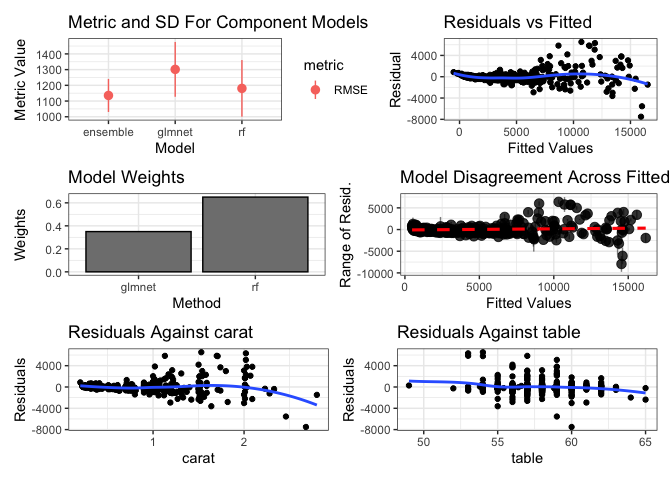
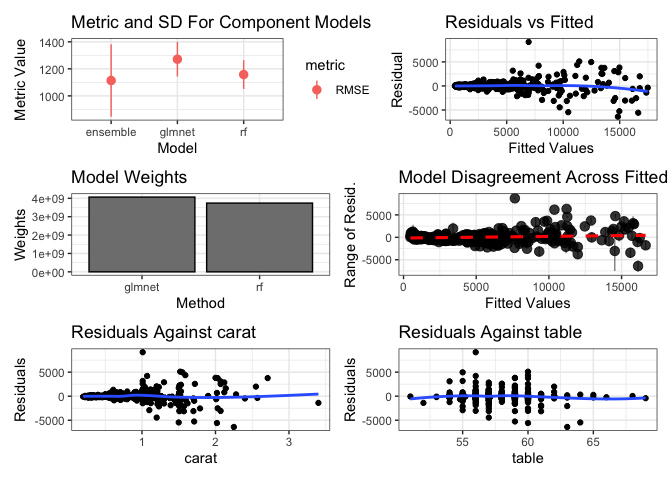
rebuild

diff --git a/README.md b/README.md
@@ -48,8 +48,8 @@ print(summary(models))
 #> Model accuracy:
 #>    model_name metric    value       sd
 #>        <char> <char>    <num>    <num>
-#> 1:         rf   RMSE 1180.525 180.2056
-#> 2:     glmnet   RMSE 1301.564 174.4400
+#> 1:         rf   RMSE 1157.927 106.0365
+#> 2:     glmnet   RMSE 1271.337 127.6882
 ```
 
 Then, use caretEnsemble to make a greedy ensemble of these models
@@ -67,18 +67,18 @@ print(greedy_stack)
 #> Summary of sample sizes: 400, 400, 400, 400, 400 
 #> Resampling results:
 #> 
-#>   RMSE      Rsquared  MAE     
-#>   1135.576  0.930478  578.2765
+#>   RMSE    Rsquared   MAE     
+#>   1088.8  0.9257616  610.9631
 #> 
 #> Tuning parameter 'max_iter' was held constant at a value of 100
 #> 
 #> Final model:
 #> Greedy MSE
-#> RMSE:  1137.89 
+#> RMSE:  1098.446 
 #> Weights:
 #>        [,1]
-#> rf     0.65
-#> glmnet 0.35
+#> rf     0.63
+#> glmnet 0.37
 ```
 
 You can also use caretStack to make a non-linear ensemble
@@ -98,7 +98,7 @@ print(rf_stack)
 #> Resampling results:
 #> 
 #>   RMSE      Rsquared   MAE     
-#>   1070.944  0.9316113  554.4014
+#>   1113.619  0.9227008  565.4813
 #> 
 #> Tuning parameter 'mtry' was held constant at a value of 2
 #> 
@@ -110,8 +110,8 @@ print(rf_stack)
 #>                      Number of trees: 500
 #> No. of variables tried at each split: 2
 #> 
-#>           Mean of squared residuals: 994643.2
-#>                     % Var explained: 93.92
+#>           Mean of squared residuals: 1321996
+#>                     % Var explained: 91.55
 ```
 
 Use autoplot from ggplot2 to plot ensemble diagnostics:
@@ -120,13 +120,13 @@ Use autoplot from ggplot2 to plot ensemble diagnostics:
 ggplot2::autoplot(greedy_stack, training_data = dat, xvars = c("carat", "table"))
 ```
 
-<img src="man/figures/README-unnamed-chunk-5-1.png" alt="6 panel plot of an ensemble of models fit to the diamonds dataset. The RF model is the best and has the highest weight. The residual plots look good. RMSE is about `r round(min(greedy_stack$ens_model$results$RMSE))`." width="100%" />
+<img src="man/figures/README-greed-stack-6-plot-1.png" alt="6 panel plot of an ensemble of models fit to the diamonds dataset. The RF model is the best and has the highest weight. The residual plots look good. RMSE is about `r round(min(greedy_stack$ens_model$results$RMSE))`." width="100%" />
 
 ``` r
 ggplot2::autoplot(rf_stack, training_data = dat, xvars = c("carat", "table"))
 ```
 
-<img src="man/figures/README-unnamed-chunk-6-1.png" alt="6 panel plot of an ensemble of models fit to the diamonds dataset. The RF model is the best and has the highest weight. The residual plots look good. RMSE is about `r round(min(rf_stack$ens_model$results$RMSE))`." width="100%" />
+<img src="man/figures/README-unnamed-chunk-5-1.png" alt="6 panel plot of an ensemble of models fit to the diamonds dataset. The RF model is the best and has the highest weight. The residual plots look good. RMSE is about `r round(min(rf_stack$ens_model$results$RMSE))`." width="100%" />
 
 # Installation
 
